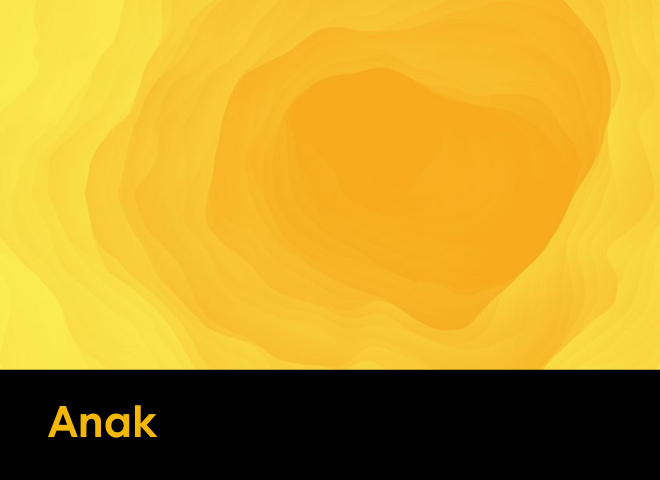
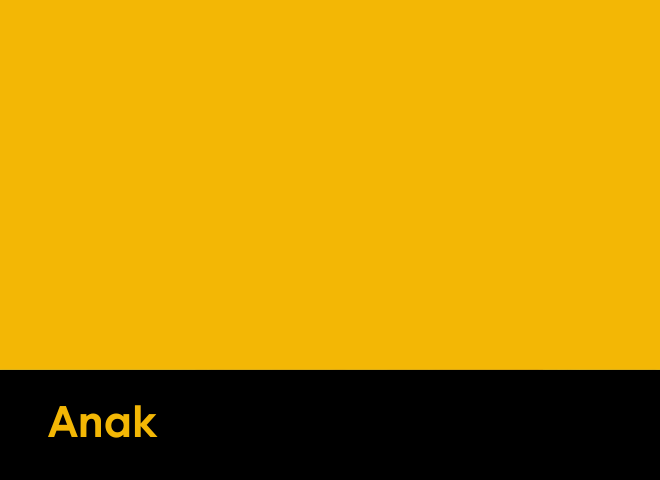
ui add

diff --git a/src/main/resources/com/example/assets/css/styles.css b/src/main/resources/com/example/assets/css/styles.css
@@ -58,6 +58,10 @@
     -fx-background-color: #E0E3E9;
 }
 
+.window_space {
+    -fx-background-color: #F3B705;
+}
+
 /* General TableView styling */
 .table-view {
     -fx-background-color: white;
@@ -155,6 +159,21 @@
     -fx-font-weight: bold;
 }
 
+.window-button {
+        -fx-background-color: #FFFEFA;
+    	-fx-border-width: 0px;
+    	-fx-border-radius: 0 20px 20px 0;
+    	-fx-background-radius: 0 20px 20px 0;
+    	-fx-border-style: solid;
+    -fx-text-fill: #372B09
+}
+.window-button .list-cell {
+	-fx-text-fill: #EDD89F
+    -fx-font-family: "Segoe UI";
+    -fx-font-size: 10px;
+    -fx-font-weight: bold;
+}
+
 .password-field {
     -fx-font-size: 14px;
     -fx-background-radius: 10px;
@@ -174,7 +193,6 @@
         	-fx-border-radius: 0 20px 20px 0;
         	-fx-background-radius: 0 20px 20px 0;
         	-fx-border-style: solid;
-        	-fx-underline-true;
         	-fx-text-fill: white;
 }
 
